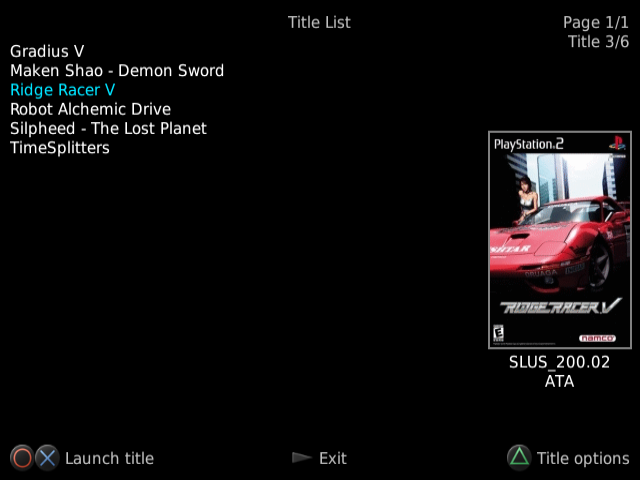
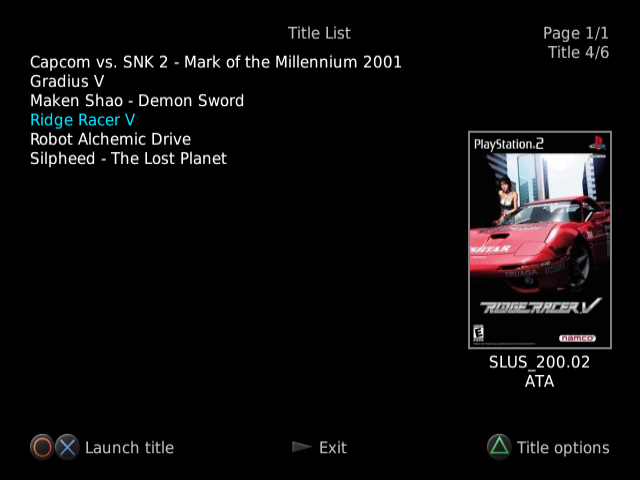
gui: add keepout area to account for possible overscan

diff --git a/src/gui.c b/src/gui.c
@@ -22,7 +22,7 @@
 int uiLoop(TargetList *titles);
 int uiTitleOptionsLoop(Target *title);
 void drawTitleList(TargetList *titles, int selectedTitleIdx, int maxTitlesPerPage, GSTEXTURE *selectedTitleCover);
-void drawArgumentList(ArgumentList *arguments, uint8_t compatModes, int selectedArgIdx);
+void drawArgumentList(ArgumentList *arguments, int baseX, uint8_t compatModes, int selectedArgIdx);
 void uiLaunchTitle(Target *target, ArgumentList *arguments);
 void drawGameID(const char *game_id);
 
@@ -51,8 +51,9 @@ static int coverArtY2;
 static int coverArtX1;
 static int coverArtY1;
 
-static const int headerHeight = 30;
-static const int footerHeight = 40;
+static const int keepoutArea = 20;
+static const int headerHeight = 20 + keepoutArea;
+static const int footerHeight = 40 + keepoutArea;
 
 void init480p(GSGLOBAL *gsGlobal) {
   gsGlobal->Mode = GS_MODE_DTV_480P;
@@ -102,7 +103,7 @@ int uiInit() {
 
   // Init cover texture
   coverTexture = calloc(sizeof(GSTEXTURE), 1);
-  coverArtX2 = (gsGlobal->Width - 10);
+  coverArtX2 = (gsGlobal->Width - keepoutArea - 10);
   coverArtY2 = (gsGlobal->Height / 2) + (COVER_ART_RES_H / 2);
   coverArtX1 = coverArtX2 - COVER_ART_RES_W;
   coverArtY1 = coverArtY2 - COVER_ART_RES_H;
@@ -159,7 +160,7 @@ int uiLoop(TargetList *titles) {
   int isCoverUninitialized = 1;
   int selectedTitleIdx = 0;
   int input = 0;
-  int maxTitlesPerPage = (gsGlobal->Height - (headerHeight + footerHeight + 10)) / getFontLineHeight();
+  int maxTitlesPerPage = (gsGlobal->Height - (headerHeight + footerHeight)) / getFontLineHeight();
   Target *curTarget = titles->first;
 
   // Get last launched title and find it in the target list
@@ -253,21 +254,20 @@ exit:
   return res;
 }
 
-void drawTitleListFooter() {
-  drawIconWindow(10, gsGlobal->Height - footerHeight, 0, gsGlobal->Height, 0, FontMainColor, ALIGN_CENTER, ICON_CIRCLE);
-  drawIconWindow(10 + getIconWidth(ICON_CIRCLE), gsGlobal->Height - footerHeight, 0, gsGlobal->Height, 0, FontMainColor, ALIGN_CENTER, ICON_CROSS);
-  drawTextWindow(15 + getIconWidth(ICON_CIRCLE) + getIconWidth(ICON_CROSS), gsGlobal->Height - footerHeight, 0, gsGlobal->Height, 0, HeaderTextColor,
-                 ALIGN_VCENTER, "Launch title");
+void drawTitleListFooter(int baseX) {
+  // int baseX = keepoutArea + 10;
+  int baseY = gsGlobal->Height - footerHeight;
+  drawIconWindow(baseX, baseY, 0, gsGlobal->Height, 0, FontMainColor, ALIGN_CENTER, ICON_CIRCLE);
+  drawIconWindow(baseX + getIconWidth(ICON_CIRCLE), baseY, 0, gsGlobal->Height, 0, FontMainColor, ALIGN_CENTER, ICON_CROSS);
+  drawTextWindow(baseX + 5 + getIconWidth(ICON_CIRCLE) + getIconWidth(ICON_CROSS), baseY, 0, gsGlobal->Height, 0, HeaderTextColor, ALIGN_VCENTER,
+                 "Launch title");
 
-  drawIconWindow(0, gsGlobal->Height - footerHeight, gsGlobal->Width - getLineWidth("Exit") - 5, gsGlobal->Height, 0, FontMainColor, ALIGN_CENTER,
-                 ICON_START);
-  drawTextWindow(5 + getIconWidth(ICON_START), gsGlobal->Height - footerHeight, gsGlobal->Width, gsGlobal->Height, 0, HeaderTextColor, ALIGN_CENTER,
-                 "Exit");
+  drawIconWindow(0, baseY, gsGlobal->Width - getLineWidth("Exit") - 5, gsGlobal->Height, 0, FontMainColor, ALIGN_CENTER, ICON_START);
+  drawTextWindow(5 + getIconWidth(ICON_START), baseY, gsGlobal->Width, gsGlobal->Height, 0, HeaderTextColor, ALIGN_CENTER, "Exit");
 
-  drawIconWindow(gsGlobal->Width - 15 - getIconWidth(ICON_TRIANGLE) - getLineWidth("Title options"), gsGlobal->Height - footerHeight,
-                 gsGlobal->Width - 10, gsGlobal->Height, 0, FontMainColor, ALIGN_VCENTER | ALIGN_LEFT, ICON_TRIANGLE);
-  drawTextWindow(0, gsGlobal->Height - footerHeight, gsGlobal->Width - 10, gsGlobal->Height, 0, HeaderTextColor, ALIGN_VCENTER | ALIGN_RIGHT,
-                 "Title options");
+  drawIconWindow(gsGlobal->Width - baseX - 5 - getIconWidth(ICON_TRIANGLE) - getLineWidth("Title options"), baseY, gsGlobal->Width - baseX,
+                 gsGlobal->Height, 0, FontMainColor, ALIGN_VCENTER | ALIGN_LEFT, ICON_TRIANGLE);
+  drawTextWindow(0, baseY, gsGlobal->Width - baseX, gsGlobal->Height, 0, HeaderTextColor, ALIGN_VCENTER | ALIGN_RIGHT, "Title options");
 }
 
 // Draws title list
@@ -276,11 +276,12 @@ void drawTitleList(TargetList *titles, int selectedTitleIdx, int maxTitlesPerPag
 
   // Draw header and footer
   int titleY = headerHeight;
-  drawTextWindow(10, headerHeight - getFontLineHeight(), coverArtX2, 0, 0, HeaderTextColor, ALIGN_HCENTER, "Title List");
+  int baseX = keepoutArea + 10;
+  drawTextWindow(baseX, headerHeight - getFontLineHeight(), gsGlobal->Width - baseX, 0, 0, HeaderTextColor, ALIGN_HCENTER, "Title List");
   snprintf(lineBuffer, 255, "Page %d/%d\nTitle %d/%d", curPage + 1, DIV_ROUND(titles->total, maxTitlesPerPage), selectedTitleIdx + 1, titles->total);
-  drawTextWindow(10, headerHeight - getFontLineHeight(), coverArtX2, 0, 0, HeaderTextColor, ALIGN_RIGHT, lineBuffer);
+  drawTextWindow(baseX, headerHeight - getFontLineHeight(), gsGlobal->Width - baseX, 0, 0, HeaderTextColor, ALIGN_RIGHT, lineBuffer);
 
-  drawTitleListFooter();
+  drawTitleListFooter(baseX);
 
   // Draw title list
   Target *curTitle = titles->first;
@@ -306,7 +307,7 @@ void drawTitleList(TargetList *titles, int selectedTitleIdx, int maxTitlesPerPag
     }
 
     // Draw title name
-    titleY = drawText(10, titleY, 0, coverArtX1, 0, ((selectedTitleIdx == curTitle->idx) ? ColorSelected : FontMainColor), curTitle->name);
+    titleY = drawText(baseX, titleY, 0, coverArtX1, 0, ((selectedTitleIdx == curTitle->idx) ? ColorSelected : FontMainColor), curTitle->name);
 
   next:
     curTitle = curTitle->next;
@@ -330,11 +331,11 @@ void drawTitleList(TargetList *titles, int selectedTitleIdx, int maxTitlesPerPag
   }
 }
 
-void drawTitleOptionsFooter() {
-  drawIconWindow(10, gsGlobal->Height - footerHeight, 0, gsGlobal->Height, 0, FontMainColor, ALIGN_CENTER, ICON_CIRCLE);
-  drawIconWindow(10 + getIconWidth(ICON_CIRCLE), gsGlobal->Height - footerHeight, 0, gsGlobal->Height, 0, FontMainColor, ALIGN_CENTER, ICON_CROSS);
-  drawTextWindow(15 + getIconWidth(ICON_CIRCLE) + getIconWidth(ICON_CROSS), gsGlobal->Height - footerHeight, 0, gsGlobal->Height, 0, HeaderTextColor,
-                 ALIGN_VCENTER, "Toggle");
+void drawTitleOptionsFooter(int baseX) {
+  drawIconWindow(baseX, gsGlobal->Height - footerHeight, 0, gsGlobal->Height, 0, FontMainColor, ALIGN_CENTER, ICON_CIRCLE);
+  drawIconWindow(baseX + getIconWidth(ICON_CIRCLE), gsGlobal->Height - footerHeight, 0, gsGlobal->Height, 0, FontMainColor, ALIGN_CENTER, ICON_CROSS);
+  drawTextWindow(baseX + 5 + getIconWidth(ICON_CIRCLE) + getIconWidth(ICON_CROSS), gsGlobal->Height - footerHeight, 0, gsGlobal->Height, 0,
+                 HeaderTextColor, ALIGN_VCENTER, "Toggle");
 
   drawIconWindow((gsGlobal->Width * 3 / 8) - getIconWidth(ICON_SQUARE), gsGlobal->Height - footerHeight, gsGlobal->Width, gsGlobal->Height, 0,
                  FontMainColor, ALIGN_VCENTER, ICON_SQUARE);
@@ -346,9 +347,9 @@ void drawTitleOptionsFooter() {
   drawTextWindow((gsGlobal->Width * 5 / 8) + 5 + getIconWidth(ICON_START), gsGlobal->Height - footerHeight, gsGlobal->Width, gsGlobal->Height, 0,
                  HeaderTextColor, ALIGN_VCENTER, "Save");
 
-  drawIconWindow(gsGlobal->Width - 15 - getIconWidth(ICON_TRIANGLE) - getLineWidth("Cancel"), gsGlobal->Height - footerHeight, gsGlobal->Width - 10,
-                 gsGlobal->Height, 0, FontMainColor, ALIGN_VCENTER | ALIGN_LEFT, ICON_TRIANGLE);
-  drawTextWindow(0, gsGlobal->Height - footerHeight, gsGlobal->Width - 10, gsGlobal->Height, 0, HeaderTextColor, ALIGN_VCENTER | ALIGN_RIGHT,
+  drawIconWindow(gsGlobal->Width - baseX - 5 - getIconWidth(ICON_TRIANGLE) - getLineWidth("Cancel"), gsGlobal->Height - footerHeight,
+                 gsGlobal->Width - baseX, gsGlobal->Height, 0, FontMainColor, ALIGN_VCENTER | ALIGN_LEFT, ICON_TRIANGLE);
+  drawTextWindow(0, gsGlobal->Height - footerHeight, gsGlobal->Width - baseX, gsGlobal->Height, 0, HeaderTextColor, ALIGN_VCENTER | ALIGN_RIGHT,
                  "Cancel");
 }
 
@@ -382,14 +383,16 @@ int uiTitleOptionsLoop(Target *target) {
     gsKit_clear(gsGlobal, BGColor);
 
     // Draw header
+    int baseX = keepoutArea + 10;
     snprintf(lineBuffer, 255, "%s\n%s", target->name, target->id);
-    drawTextWindow(10, headerHeight-getFontLineHeight(), coverArtX2, 0, 0, HeaderTextColor, ALIGN_HCENTER, lineBuffer);
-    drawTextWindow(10, headerHeight+1.5*getFontLineHeight(), coverArtX2, 0, 0, FontMainColor, ALIGN_HCENTER, "Compatibility modes");
+    drawTextWindow(baseX, headerHeight - getFontLineHeight(), gsGlobal->Width - baseX, 0, 0, HeaderTextColor, ALIGN_HCENTER, lineBuffer);
+    drawTextWindow(baseX, headerHeight + 1.5 * getFontLineHeight(), gsGlobal->Width - baseX, 0, 0, FontMainColor, ALIGN_HCENTER,
+                   "Compatibility modes");
 
     // Draw footer
-    drawTitleOptionsFooter();
+    drawTitleOptionsFooter(baseX);
 
-    drawArgumentList(titleArguments, modes, selectedArgIdx);
+    drawArgumentList(titleArguments, baseX, modes, selectedArgIdx);
 
     gsKit_queue_exec(gsGlobal);
     gsKit_sync_flip(gsGlobal);
@@ -439,8 +442,8 @@ exit:
 }
 
 // Draws title arguments
-void drawArgumentList(ArgumentList *arguments, uint8_t compatModes, int selectedArgIdx) {
-  int startY = headerHeight+2.5*getFontLineHeight();
+void drawArgumentList(ArgumentList *arguments, int baseX, uint8_t compatModes, int selectedArgIdx) {
+  int startY = headerHeight + 2.5 * getFontLineHeight();
   int idx = 0;
 
   // Draw compatibility modes
@@ -448,9 +451,10 @@ void drawArgumentList(ArgumentList *arguments, uint8_t compatModes, int selected
   // Indexes 0 through CM_NUM_MODES are reserved for compatibility modes
   for (idx = 0; idx < CM_NUM_MODES; idx++) {
     if (compatModes & COMPAT_MODE_MAP[idx].mode) {
-      drawIconWindow(10, startY, 20, startY + getFontLineHeight(), 0, FontMainColor, ALIGN_CENTER, ICON_ENABLED);
+      drawIconWindow(baseX, startY, 20, startY + getFontLineHeight(), 0, FontMainColor, ALIGN_CENTER, ICON_ENABLED);
     }
-    startY = drawText(15+getIconWidth(ICON_ENABLED), startY, 0, 0, 0, ((selectedArgIdx == idx) ? ColorSelected : FontMainColor), COMPAT_MODE_MAP[idx].name);
+    startY = drawText(baseX + getIconWidth(ICON_ENABLED), startY, 0, 0, 0, ((selectedArgIdx == idx) ? ColorSelected : FontMainColor),
+                      COMPAT_MODE_MAP[idx].name);
   }
 
   // Draw other arguments
@@ -463,14 +467,14 @@ void drawArgumentList(ArgumentList *arguments, uint8_t compatModes, int selected
   startY += 10;
   idx = 0; // Reset index
 
-  startY = drawTextWindow(10, startY, coverArtX2, 0, 0, FontMainColor, ALIGN_CENTER, "Launch arguments");
+  startY = drawTextWindow(baseX, startY, gsGlobal->Width - baseX, 0, 0, FontMainColor, ALIGN_CENTER, "Launch arguments");
 
   // Set number of elements per page according to line height and available screen height
   int maxArguments = (gsGlobal->Height - startY - footerHeight) / getFontLineHeight();
   int curPage = (selectedArgIdx - (int)CM_NUM_MODES) / maxArguments;
 
   snprintf(lineBuffer, 255, "Page %d/%d", curPage + 1, DIV_ROUND(arguments->total - 1, maxArguments));
-  startY = drawTextWindow(10, startY - getFontLineHeight(), coverArtX2, 0, 0, HeaderTextColor, ALIGN_RIGHT, lineBuffer);
+  startY = drawTextWindow(baseX, startY - getFontLineHeight(), gsGlobal->Width - baseX, 0, 0, HeaderTextColor, ALIGN_RIGHT, lineBuffer);
 
   // Always start with the second element since the first
   // is guaranteed to be a compatibility mode flag
@@ -488,12 +492,12 @@ void drawArgumentList(ArgumentList *arguments, uint8_t compatModes, int selected
 
     // Draw argument
     if (!argument->isDisabled)
-      drawIconWindow(10, startY, 20, startY + getFontLineHeight(), 0, FontMainColor, ALIGN_CENTER, ICON_ENABLED);
+      drawIconWindow(baseX, startY, 20, startY + getFontLineHeight(), 0, FontMainColor, ALIGN_CENTER, ICON_ENABLED);
 
     snprintf(lineBuffer, 255, "%s%s%s %s", ((argument->isGlobal) ? "[G] " : ""), argument->arg, (!strlen(argument->value)) ? "" : ":",
              argument->value);
-    // Increment index for Y coordinate because 'Launch arguments' string occupies space for index 5
-    startY = drawText(15+getIconWidth(ICON_ENABLED), startY, 0, 0, 0, (((selectedArgIdx - (int)CM_NUM_MODES) == idx) ? ColorSelected : FontMainColor), lineBuffer);
+    startY = drawText(baseX + getIconWidth(ICON_ENABLED), startY, 0, 0, 0,
+                      (((selectedArgIdx - (int)CM_NUM_MODES) == idx) ? ColorSelected : FontMainColor), lineBuffer);
 
     idx++;
   next:
